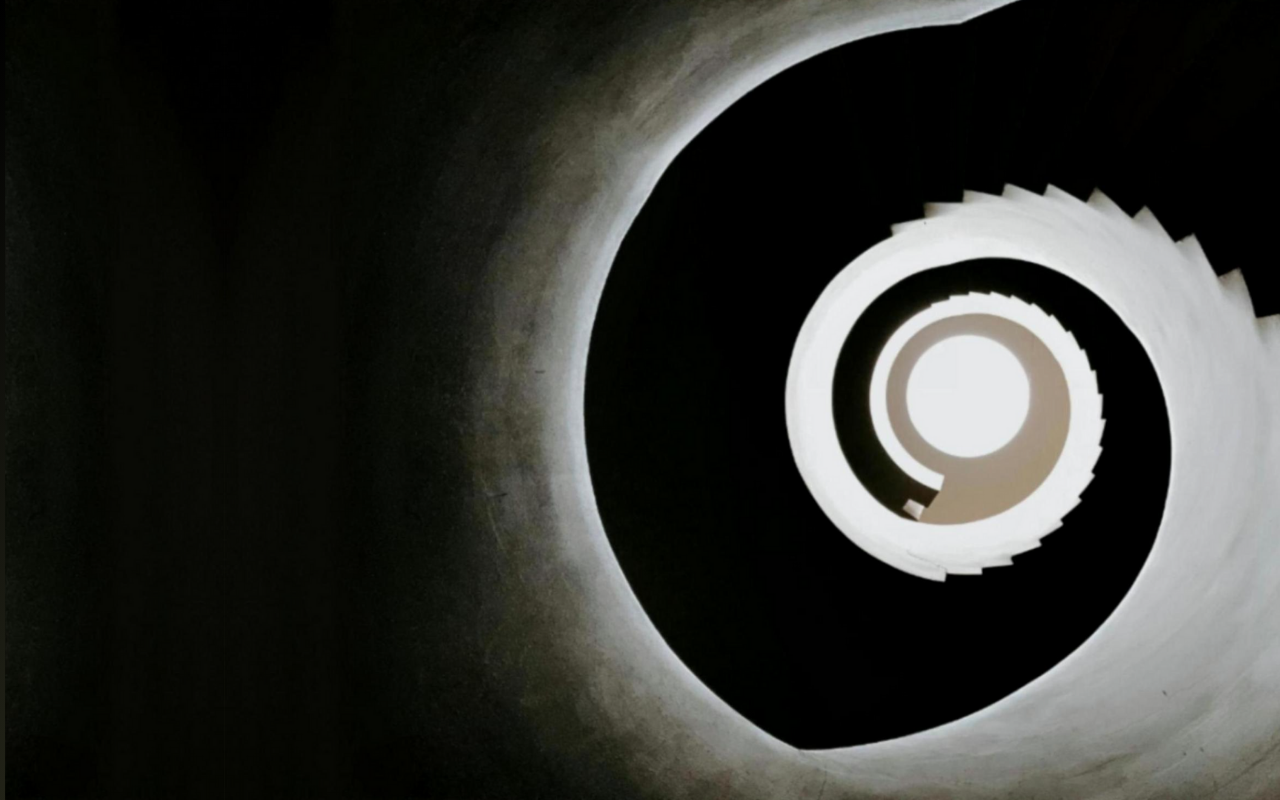
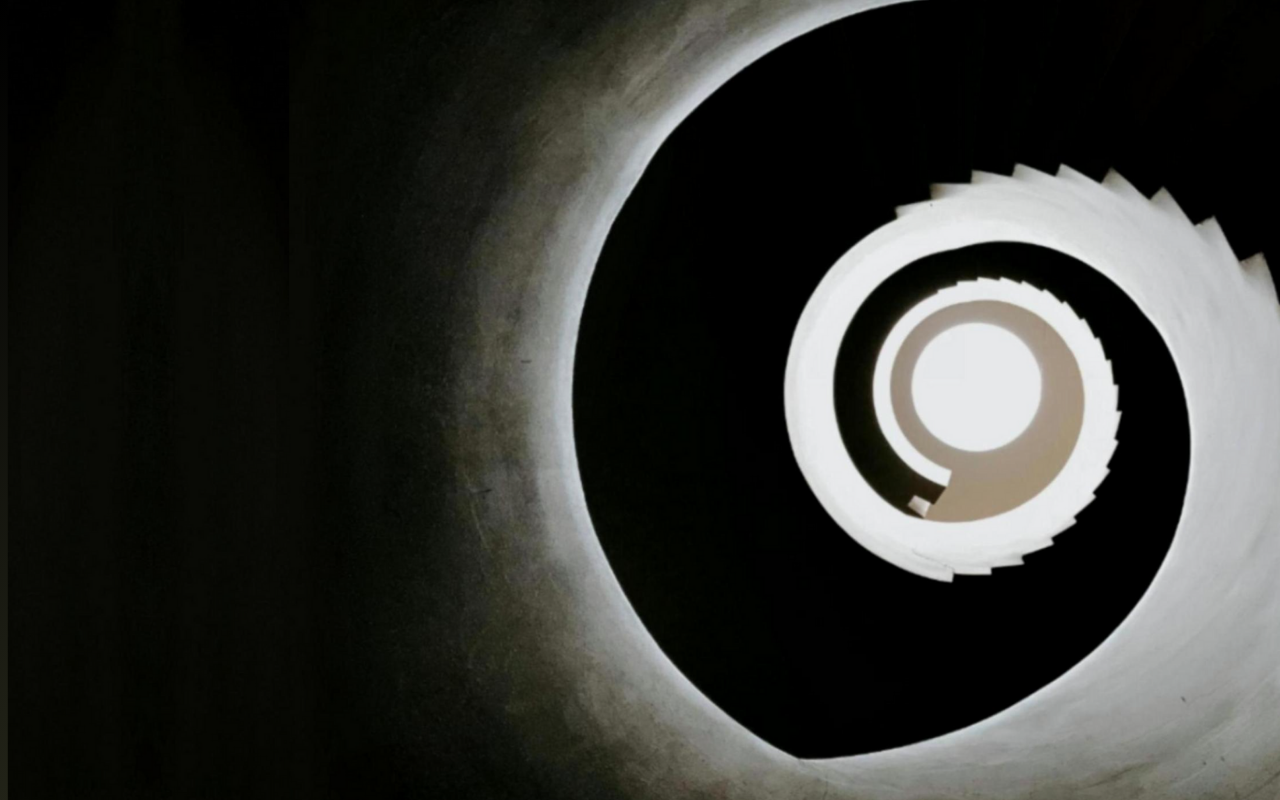
kuvaa muokattu

diff --git a/index.html b/index.html
@@ -27,7 +27,7 @@
         </nav>
     </header>
     <section id="hero">
-        <img src="images/hero_image.png" alt="Landing image" width="100%">
+        <img src="images/hero_image-1.png" alt="Landing image" width="100%">
         <div class="hero-text">
             <h1>Digital Design Portfolio</h1>
             <p>Portfolio by Ina Kleinman</p>
